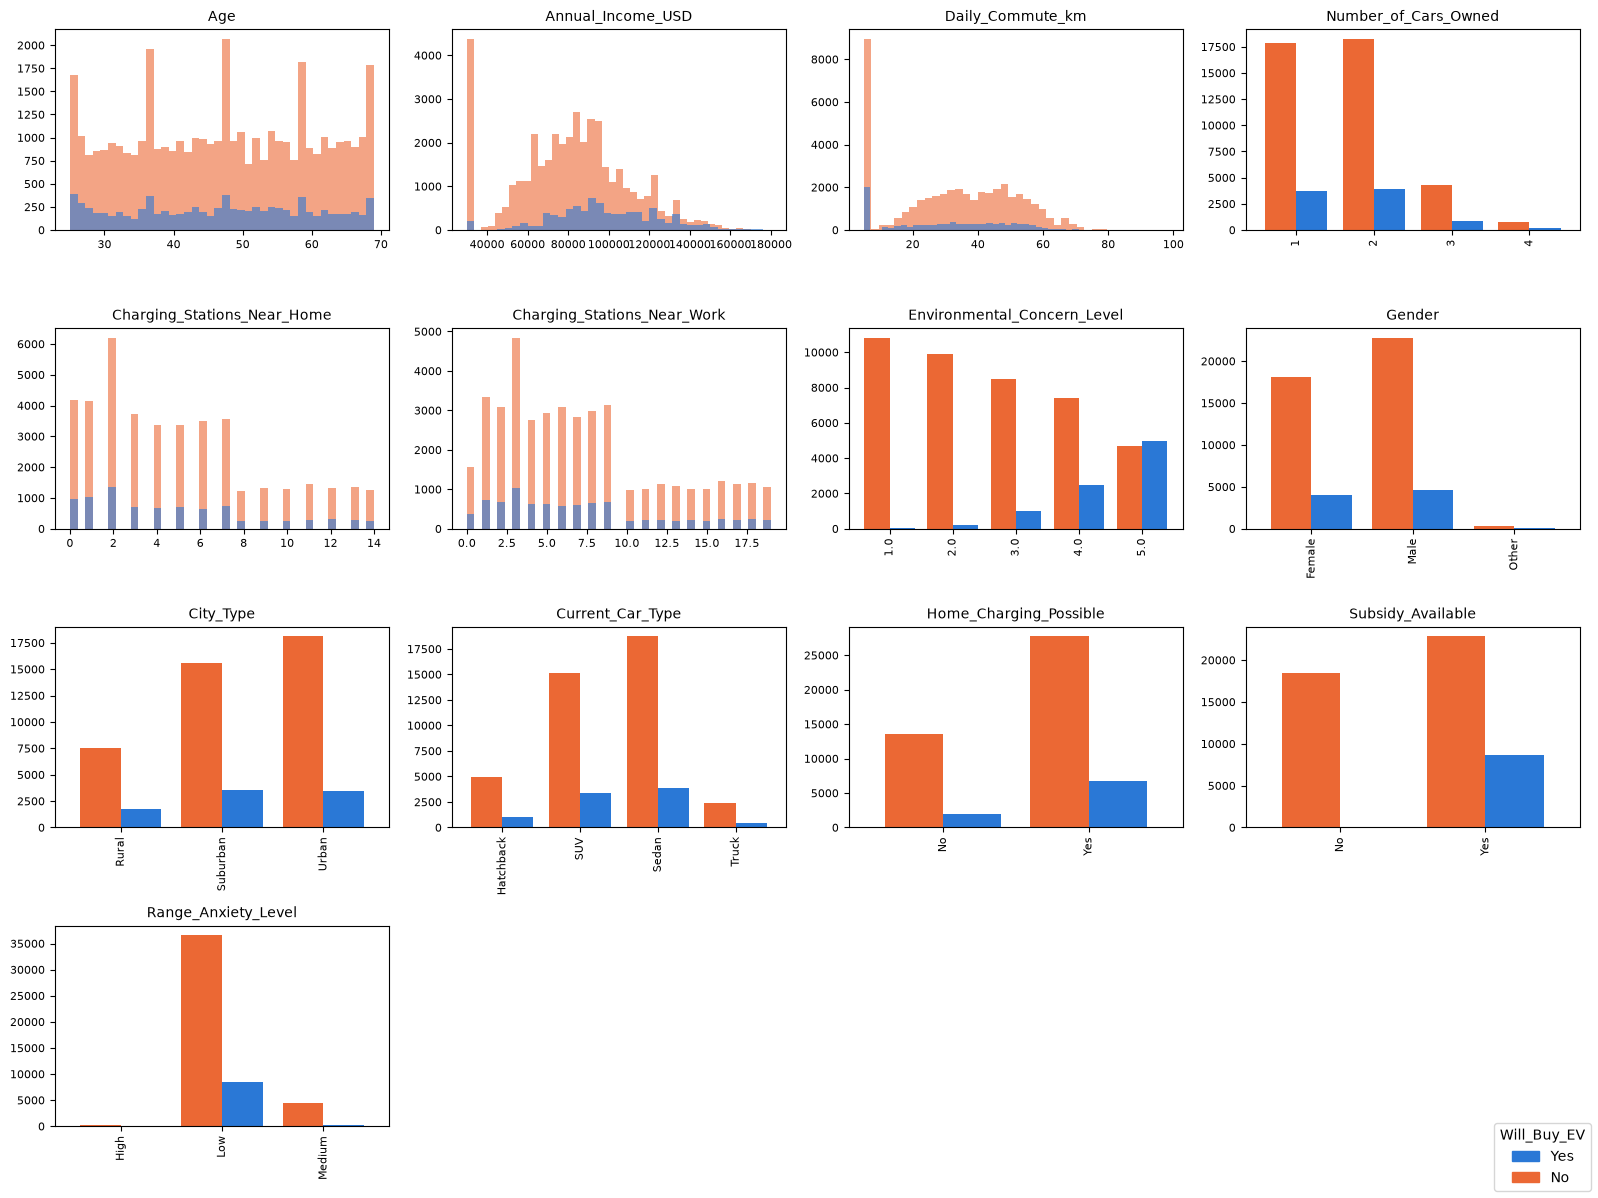
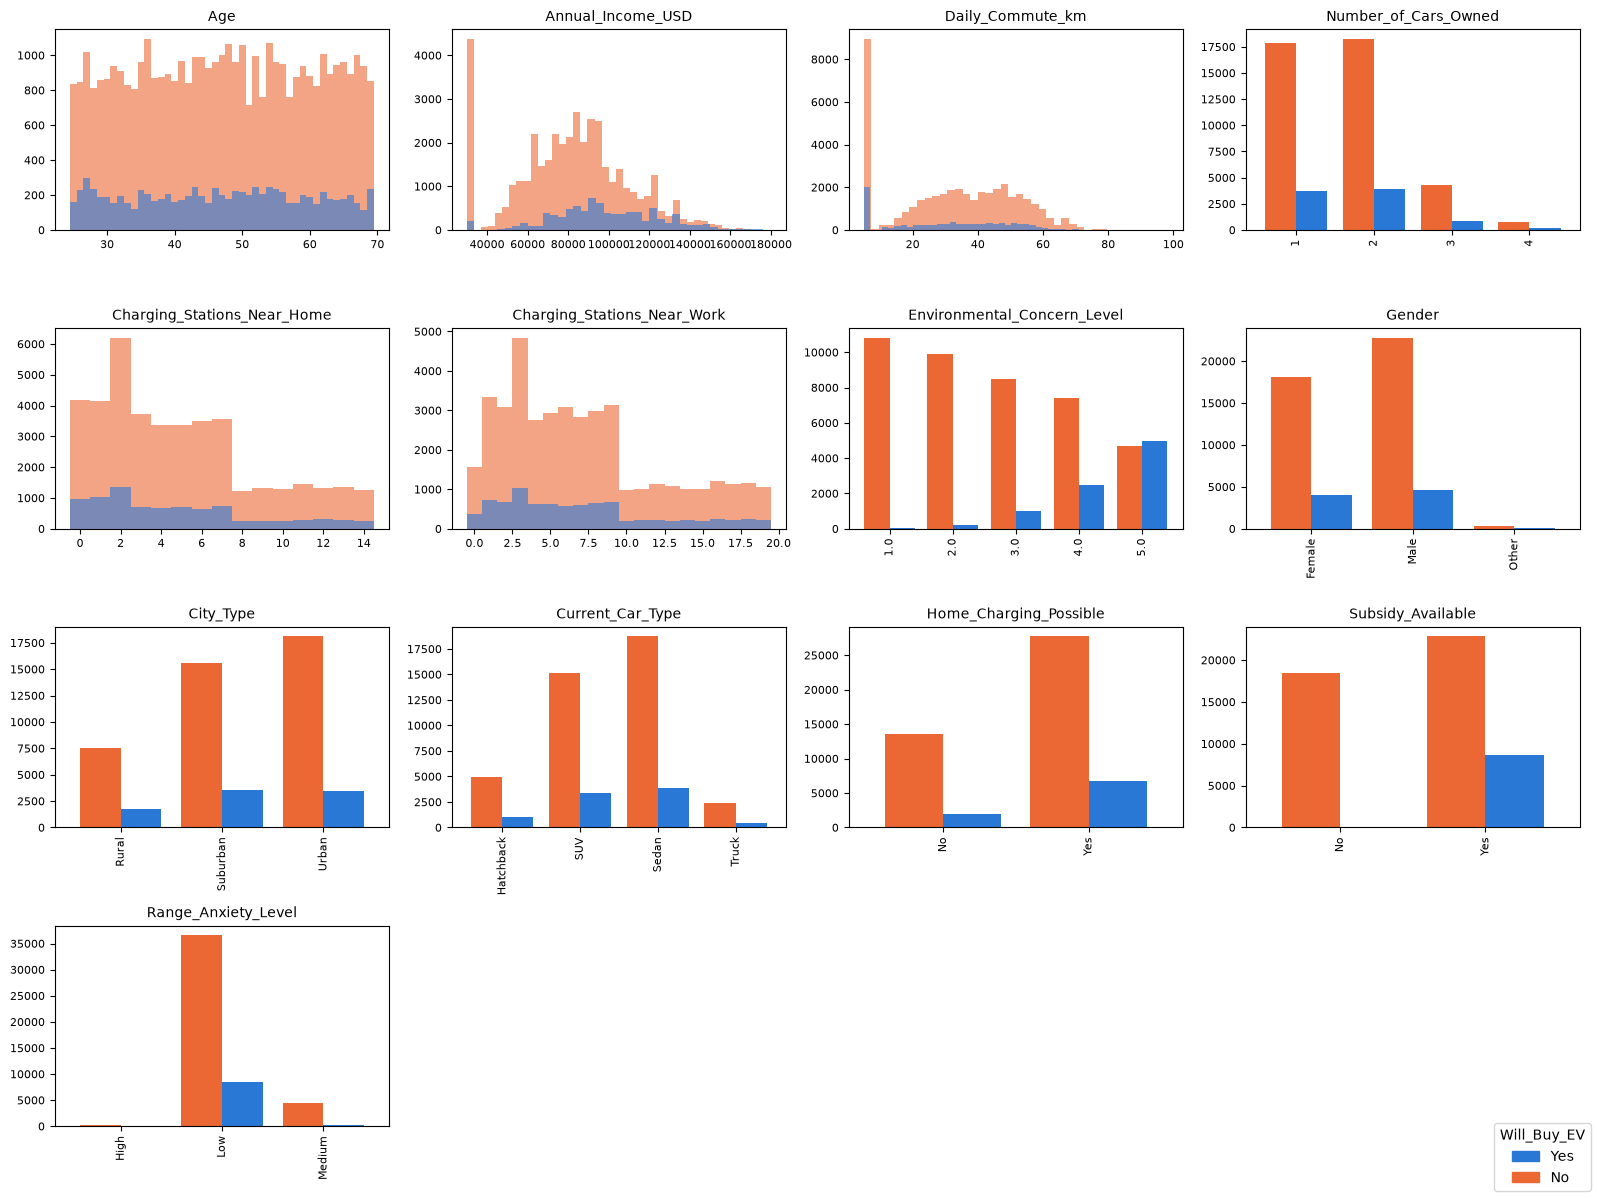
plot_features: one histogram bin per value for integer columns
40 equal-width bins over 45 integer ages made every eighth bin hold two
ages, producing fake pillars. Integer-valued columns with <=100 distinct
values now get integer-centred bins. Re-exported feature_plots.png.

diff --git a/playground-series-s6e9/s6e9.py b/playground-series-s6e9/s6e9.py
@@ -55,7 +55,8 @@ def prep(df, cats=None):
 def plot_features(df, cols=None, ncols=4, sample=50_000, path=None):
     """
     One panel per feature, distribution split by target: histograms for numeric,
-    count bars for categorical / low-cardinality. Blue = target 1, orange = 0;
+    count bars for categorical / low-cardinality; integer columns get one bin per
+    value. Blue = target 1, orange = 0;
     matching shapes mean the feature does not separate the classes.
     Pass `path` to also save the figure (png).
     """
@@ -67,8 +68,12 @@ def plot_features(df, cols=None, ncols=4, sample=50_000, path=None):
         if d[c].dtype == object or d[c].nunique() <= 10:
             d.groupby(c)[TARGET].value_counts().unstack().plot.bar(ax=ax, color=colors, width=0.8, legend=False)
         else:
+            # integer-valued columns get one bin per value so no bin ever straddles two values
+            v = d[c].dropna()
+            whole = (v % 1 == 0).all() and v.nunique() <= 100
+            bins = np.arange(v.min() - 0.5, v.max() + 1.5) if whole else 40
             for t, col in colors.items():
-                ax.hist(d.loc[d[TARGET] == t, c], bins=40, alpha=0.6, color=col)
+                ax.hist(d.loc[d[TARGET] == t, c], bins=bins, alpha=0.6, color=col)
         ax.set_title(c, fontsize=10); ax.set_xlabel(''); ax.tick_params(labelsize=8)
     for ax in axes.flat[len(cols):]:
         ax.axis('off')
